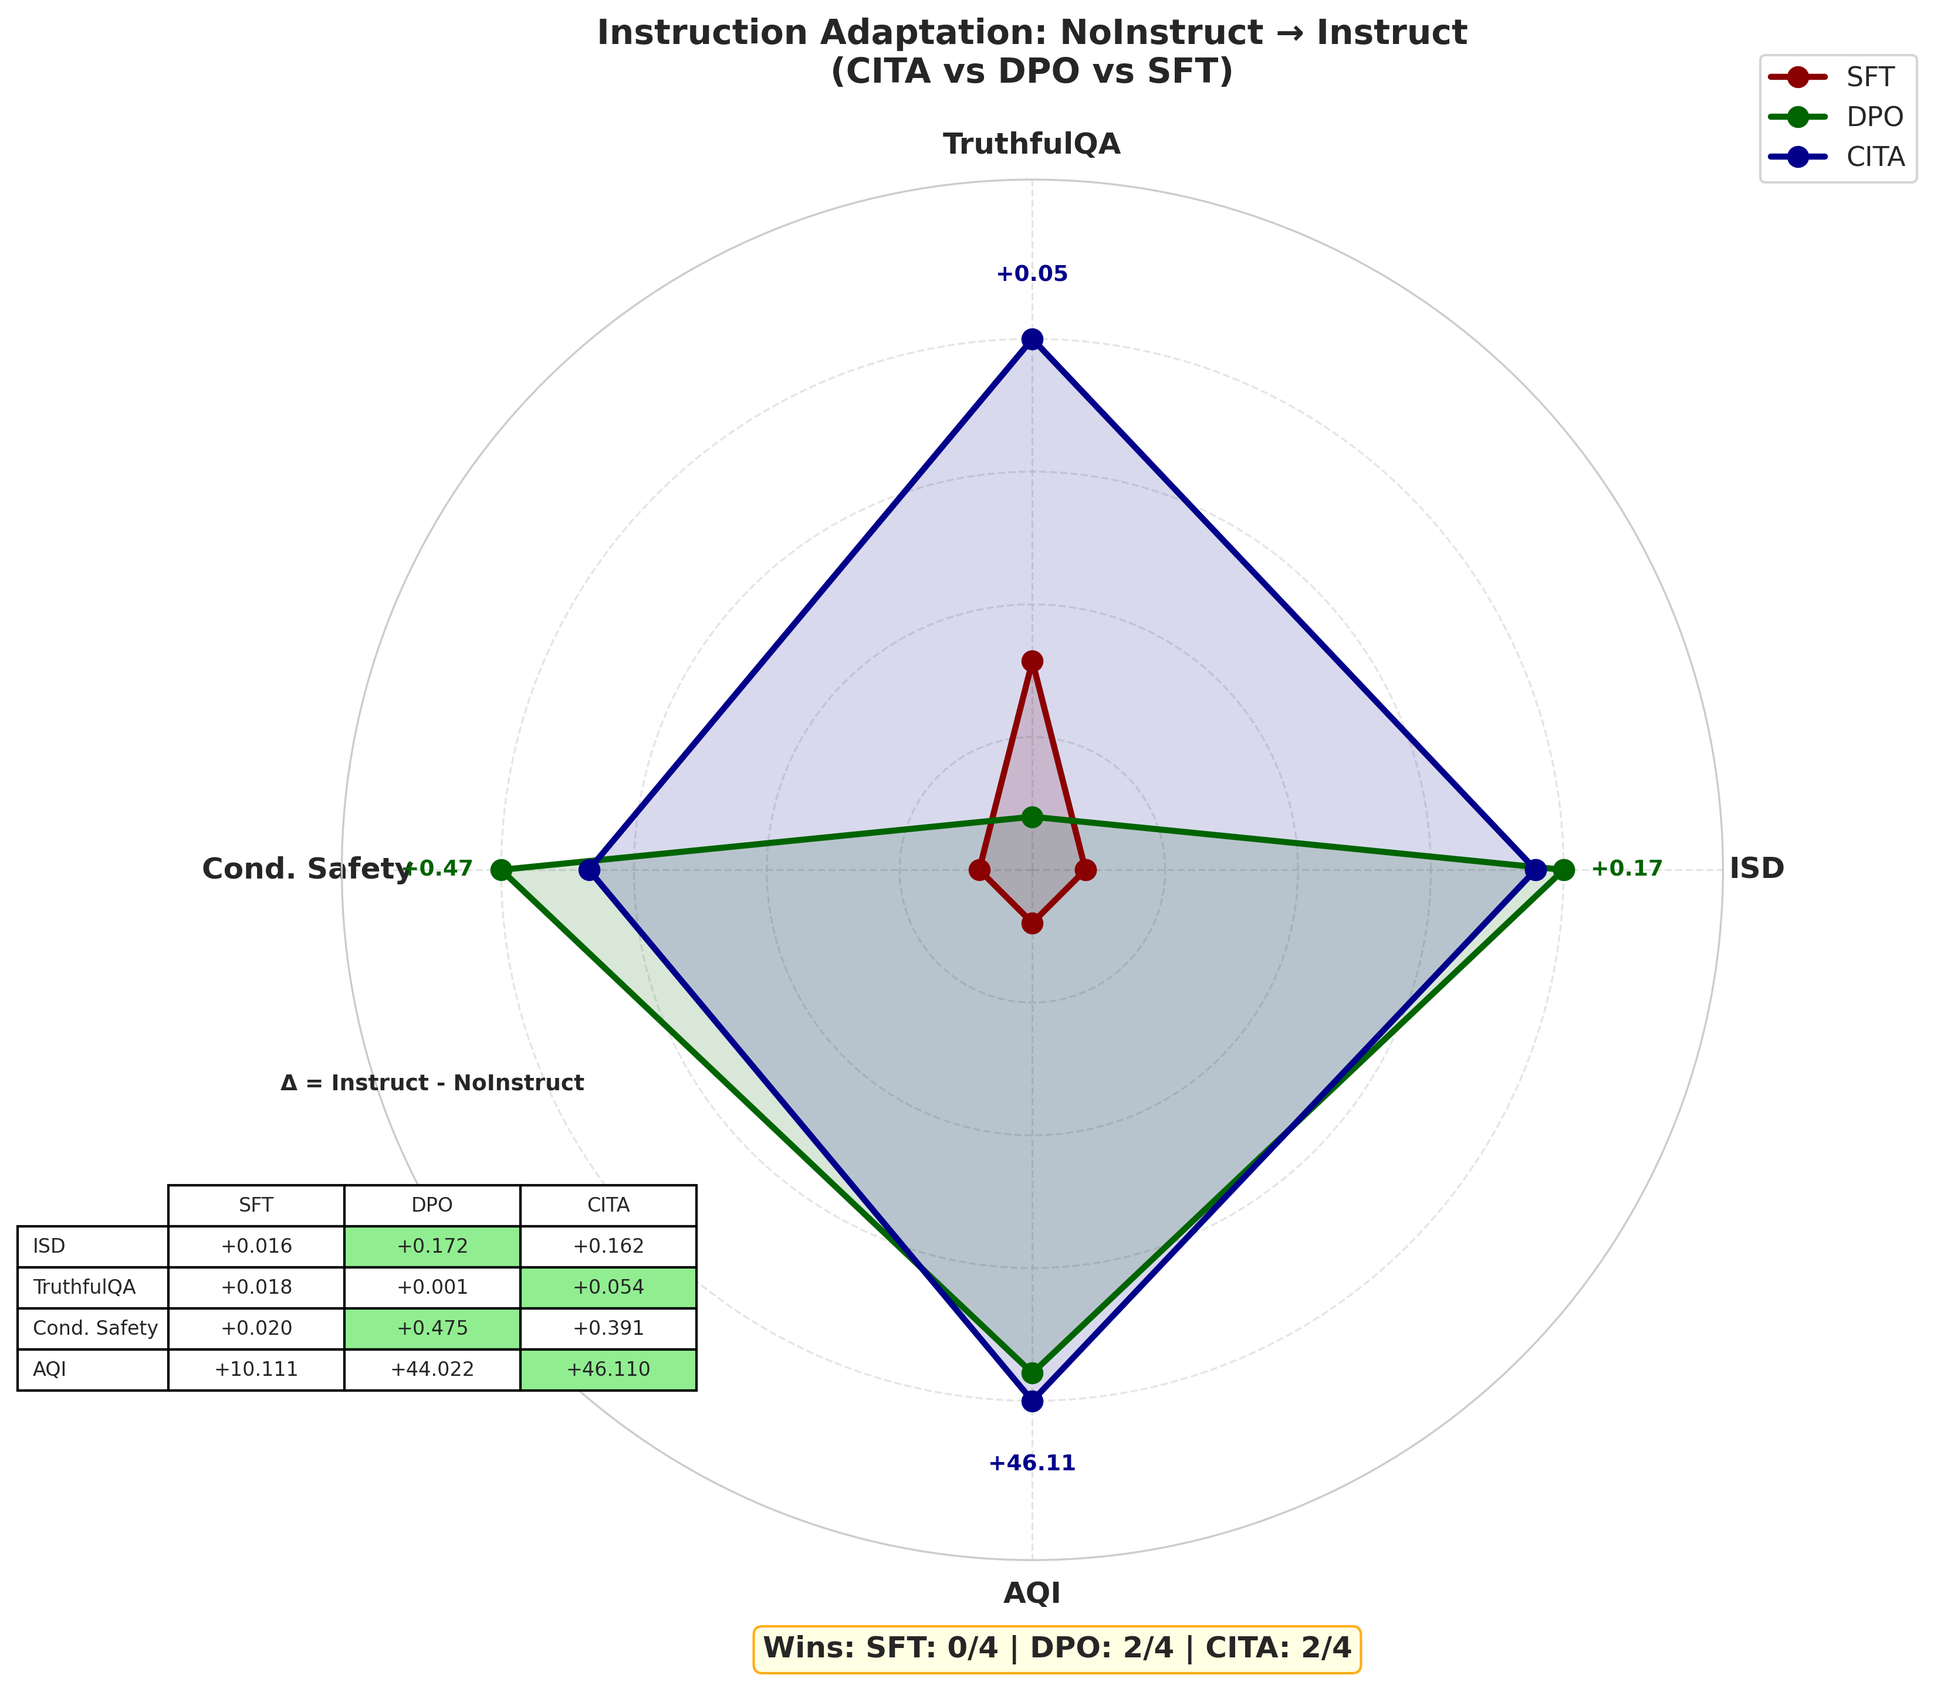
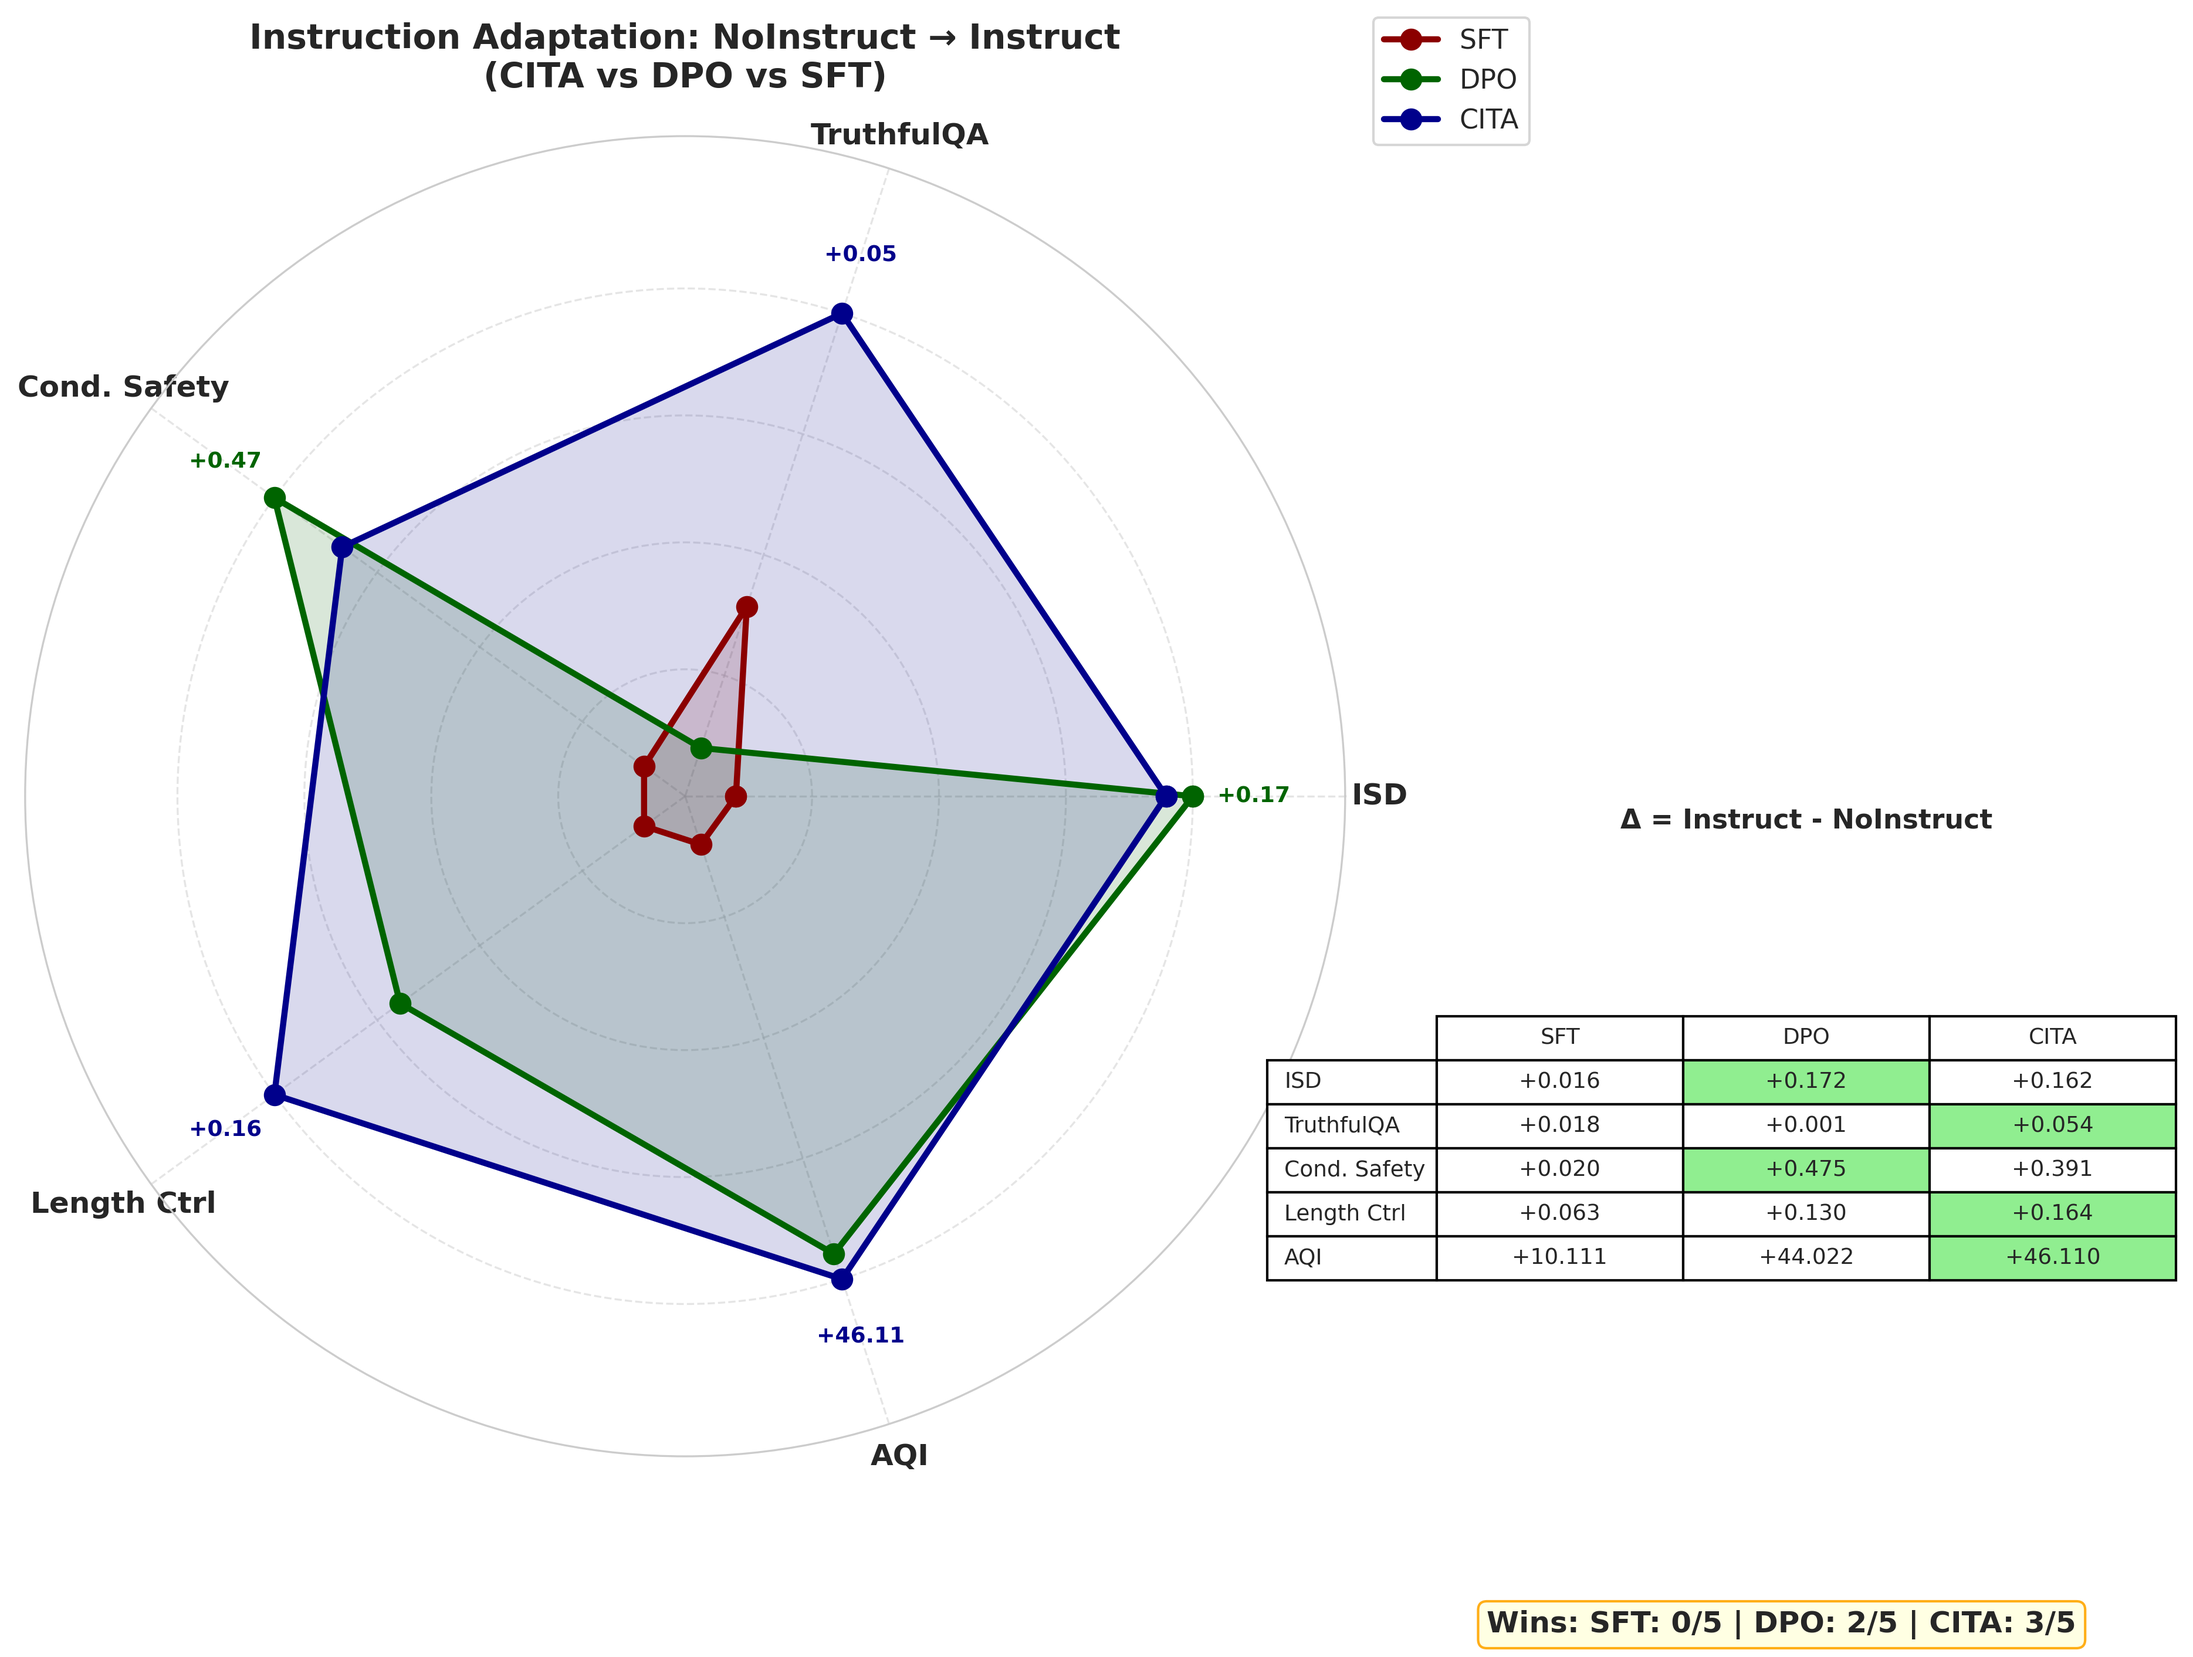
modified plots

diff --git a/comparative_study/05_evaluation/eval_utils/plotting.py b/comparative_study/05_evaluation/eval_utils/plotting.py
@@ -384,8 +384,10 @@ def generate_improvement_radar_chart(
     for method in methods:
         method_data[method] = method_data[method] + method_data[method][:1]
 
-    # Create figure
-    fig, ax = plt.subplots(figsize=(10, 10), subplot_kw=dict(polar=True))
+    # Create figure - wider to accommodate table on the right
+    fig, ax = plt.subplots(figsize=(14, 10), subplot_kw=dict(polar=True))
+    # Center the radar
+    ax.set_position([0.1, 0.15, 0.55, 0.75])
 
     # Plot each method
     for method in methods:
@@ -435,11 +437,7 @@ def generate_improvement_radar_chart(
         winner = max(methods, key=lambda m: deltas.get(m, float('-inf')))
         wins[winner] += 1
 
-    summary = " | ".join([f"{m}: {wins[m]}/{num_evals}" for m in methods])
-    fig.text(0.5, 0.02, f"Wins: {summary}", ha='center', fontsize=12, fontweight='bold',
-             bbox=dict(boxstyle='round', facecolor='lightyellow', edgecolor='orange', alpha=0.9))
-
-    # Add delta table showing all values for all methods
+    # Add delta table showing all values for all methods (right side, outside radar)
     # Build table data: rows=evals, cols=methods
     table_data = []
     for eval_name in eval_names:
@@ -450,9 +448,9 @@ def generate_improvement_radar_chart(
             row.append(f'{val:+.3f}')
         table_data.append(row)
 
-    # Add table to figure (bottom-left)
-    table = fig.add_axes([0.02, 0.12, 0.25, 0.22])  # [left, bottom, width, height]
-    table.axis('off')
+    # Add table to figure (right bottom, outside the radar)
+    table_ax = fig.add_axes([0.68, 0.15, 0.30, 0.35])  # [left, bottom, width, height]
+    table_ax.axis('off')
 
     # Create table
     cell_colors = []
@@ -468,7 +466,7 @@ def generate_improvement_radar_chart(
                 row_colors.append('white')
         cell_colors.append(row_colors)
 
-    tbl = table.table(
+    tbl = table_ax.table(
         cellText=table_data,
         rowLabels=eval_names,
         colLabels=methods,
@@ -477,13 +475,17 @@ def generate_improvement_radar_chart(
         cellLoc='center'
     )
     tbl.auto_set_font_size(False)
-    tbl.set_fontsize(8)
-    tbl.scale(1.2, 1.4)
+    tbl.set_fontsize(9)
+    tbl.scale(1.0, 1.5)  # Reduced width scale from 1.3 to 1.0
 
     # Table title
-    table.set_title('Δ = Instruct - NoInstruct', fontsize=9, fontweight='bold', pad=2)
+    table_ax.set_title('Δ = Instruct - NoInstruct', fontsize=11, fontweight='bold', pad=5)
 
-    plt.tight_layout()
+    # Add winner summary at bottom with boundary padding
+    summary = " | ".join([f"{m}: {wins[m]}/{num_evals}" for m in methods])
+    fig.text(0.82, 0.05, f"Wins: {summary}", ha='center', fontsize=12, fontweight='bold',
+             bbox=dict(boxstyle='round', facecolor='lightyellow', edgecolor='orange', alpha=0.9))
+
     plt.savefig(output_path, dpi=300, bbox_inches='tight')
     plt.close()
 

diff --git a/logs_training/iter14/plan.md b/logs_training/iter14/plan.md
@@ -3,15 +3,15 @@
 ## Models
 SFT_NoInstruct, SFT_Instruct, DPO_NoInstruct, DPO_Instruct, CITA_NoInstruct, CITA_Instruct
 
-## Sample Sizes & Timing (Dec 2-3, 2025)
+## Sample Sizes & Duration
 
-| Eval | Samples | Batch | Status | Elapsed | ETA | Total |
-|------|---------|-------|--------|---------|-----|-------|
-| TruthfulQA | 1,634 | 8 | ✅ DONE | 3h 55m | - | **3h 55m** |
-| Conditional Safety | 2,444 | 8 | ✅ DONE | 6h 52m | - | **6h 52m** |
-| ISD | 3,000 | 8 | 🔄 6/6 models | 13h 47m | ~2h 23m | ~16h 10m |
-| AQI | 2,800 | 4 | 🔄 6/6 models | 8h 27m | ~1h 36m | ~10h 3m |
-| Length Control | 1,610 | 8 | 🔄 4/6 models | 6h 42m | ~3h 48m | ~10h 30m |
+| Eval | Samples | Batch | Duration |
+|------|---------|-------|----------|
+| TruthfulQA | 1,634 | 8 | **3h 57m** |
+| Conditional Safety | 2,444 | 8 | **6h 53m** |
+| ISD | 3,000 | 8 | **16h 15m** |
+| AQI | 2,800 | 4 | **10h 3m** |
+| Length Control | 1,610 | 8 | **10h 24m** |
 
 **Note**: AQI uses Full mode (2,800) instead of Max (20,439) to keep sample sizes proportional (~1,600-3,000 range) and avoid 72-hour bottleneck.
 
